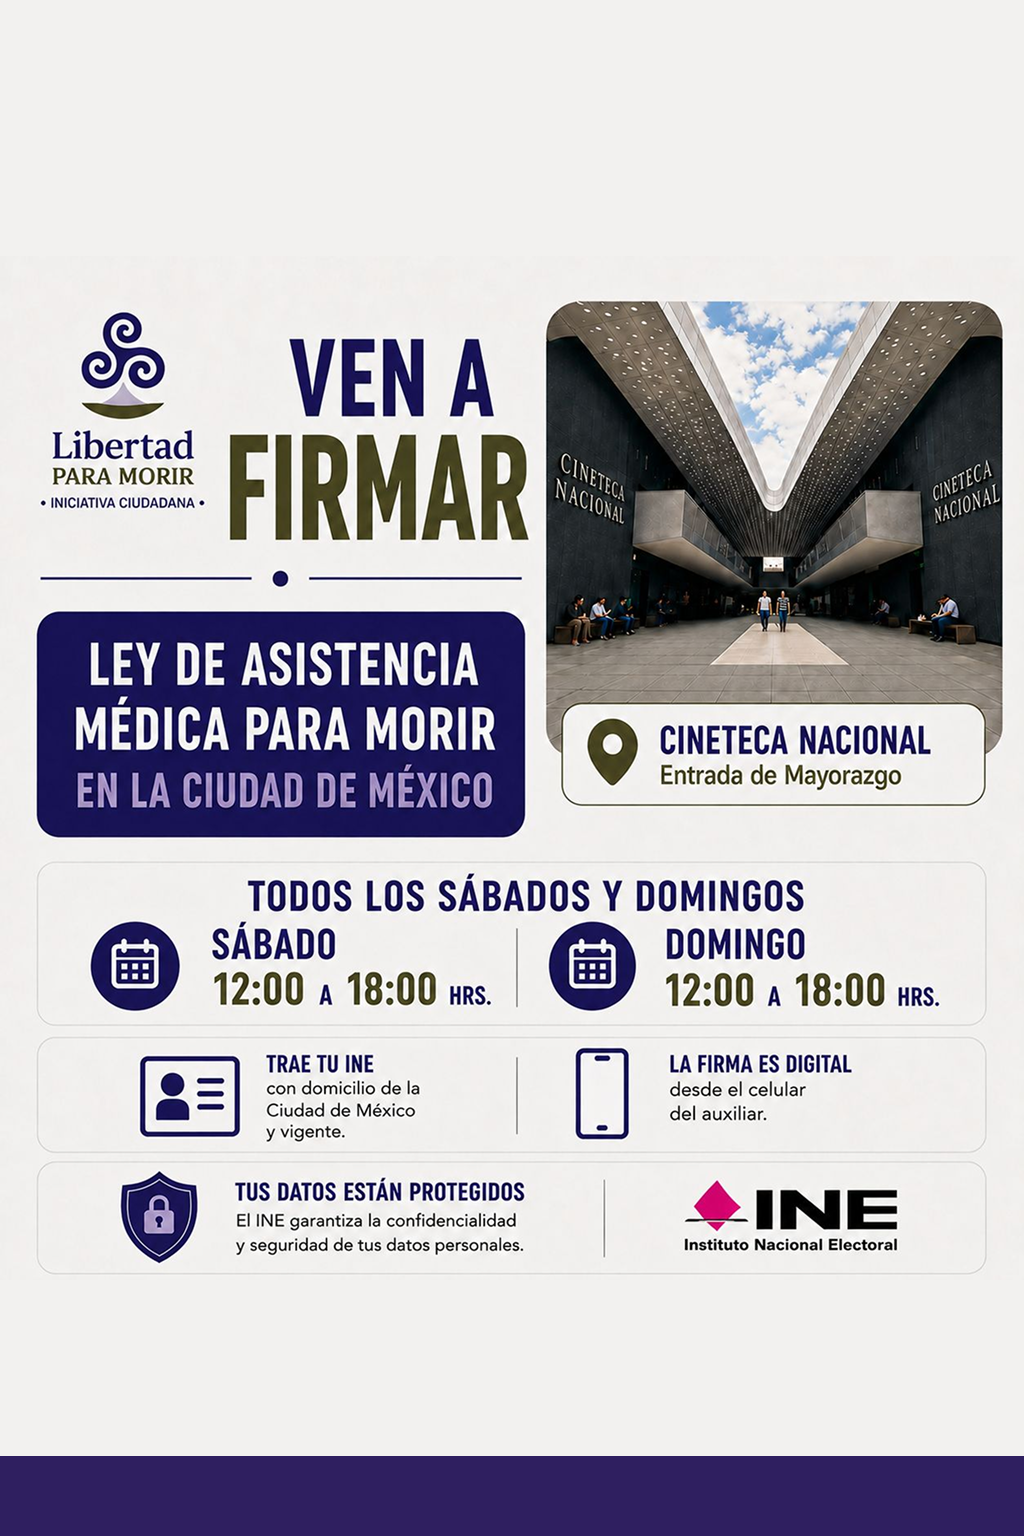
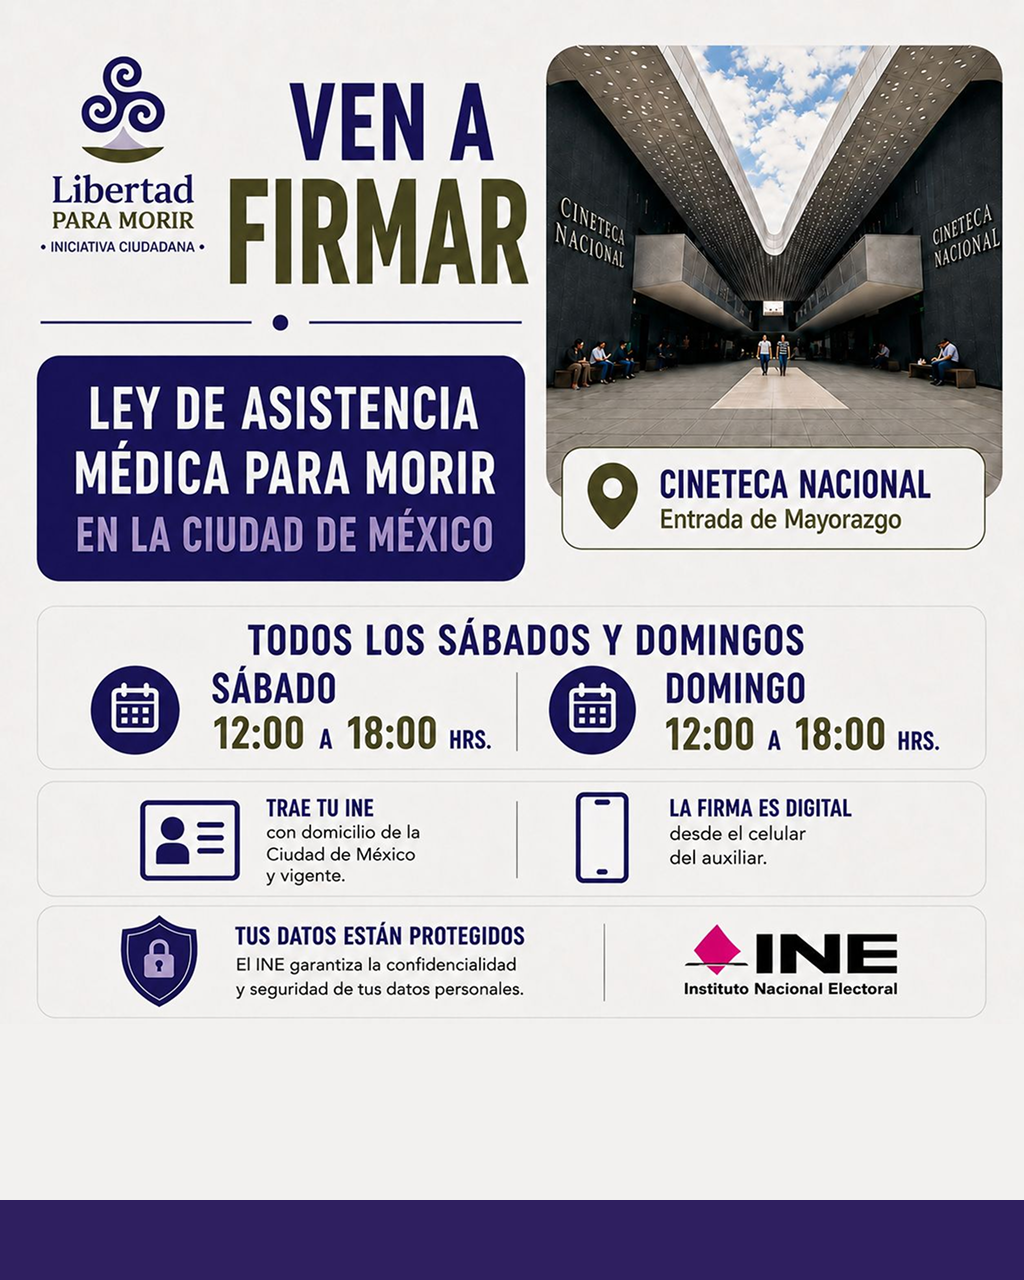
Added new sign places

diff --git a/index.html b/index.html
@@ -194,10 +194,16 @@ document.addEventListener('click', function (event) {
     <section class="section-container gray">
         <div class="section padding-xxxxlarge">
             <div class="half-column-1">
-                <h2 class="xlarge">Encuentra los puntos fijos de recolección de&nbsp;firmas</h2>
+                <h2 class="xlarge">Encuentra los puntos de recolección de&nbsp;firmas</h2>
             </div>
             <div class="half-column-2">
                 <div class="three-column-grid">
+                    <div class="img-container" style="display: flex; flex-direction: column;">                 
+                        <img src="img/Resources/Firma1.png" alt="" style="width: 100%; max-width: none; height: 100%; object-fit: cover; border-radius: 16px; border: 2px solid black;">
+                    </div>
+                    <div class="img-container" style="display: flex; flex-direction: column;">                 
+                        <img src="img/Resources/Firma2.png" alt="" style="width: 100%; max-width: none; height: 100%; object-fit: cover; border-radius: 16px; border: 2px solid black;">
+                    </div>
                     <div class="img-container" style="display: flex; flex-direction: column;">                 
                         <img src="img/Resources/CNA.png" alt="" style="width: 100%; max-width: none; height: 100%; object-fit: cover; border-radius: 16px; border: 2px solid black;">
                     </div>

diff --git a/css/styles.css b/css/styles.css
@@ -657,14 +657,8 @@ header.dark {
   }
   .three-column-grid {
     display: grid;
-    grid-template-columns: repeat(6, 1fr);
+    grid-template-columns: repeat(4, 1fr);
     gap: 1.5rem;
-  }
-  .three-column-grid :first-child {
-    grid-column: 2/4;
-  }
-  .three-column-grid :last-child {
-    grid-column: 4/6;
   }
 }
 @media screen and (min-width: 900px) and (max-width: 1200px) {

diff --git a/css/_section.scss b/css/_section.scss
@@ -113,14 +113,8 @@
     }
     .three-column-grid{
         display: grid;
-        grid-template-columns: repeat(6,1fr);
+        grid-template-columns: repeat(4,1fr);
         gap: 1.5rem;
-        & :first-child{
-            grid-column: 2/4;
-        }
-        & :last-child{
-            grid-column: 4/6;
-        }
     }
 }
 
